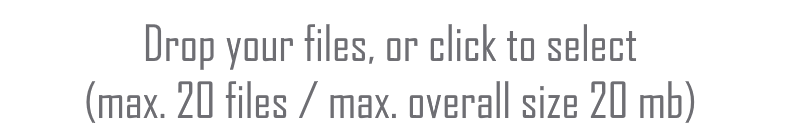
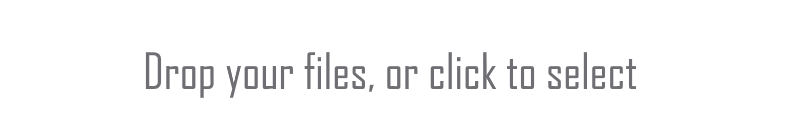
Small quality of life changes on frontend

Changed region(s): [[0.0938, 0.1818, 0.875, 0.9394]]

diff --git a/upload/src/main/resources/static/css/style.css b/upload/src/main/resources/static/css/style.css
@@ -367,3 +367,8 @@ sup {
 sup:hover {
 	text-shadow: 0 0 1px #fff, 0 0 1px #fff, 0 0 1px #BA3B46, 0 0 5px #BA3B46, 0 0 6px #BA3B46, 0 0 7px #BA3B46, 0 0 8px #BA3B46
 }
+
+.fileSizeAndCount {
+	float: right;
+	font-size: 12px;
+}

diff --git a/upload/src/main/java/io/aliza/controller/MainController.java b/upload/src/main/java/io/aliza/controller/MainController.java
@@ -39,7 +39,7 @@ public class MainController {
 	Logger logger = LoggerFactory.getLogger(MainController.class);
 
 	static Integer maxFileSize = 20971520;	// 20MB in bytes
-	static Integer maxFileAmount = 20;
+	static Integer maxFileAmount = 10;
 	static Integer maxFileNameLength = 30;
 	
 	@GetMapping("/error")
